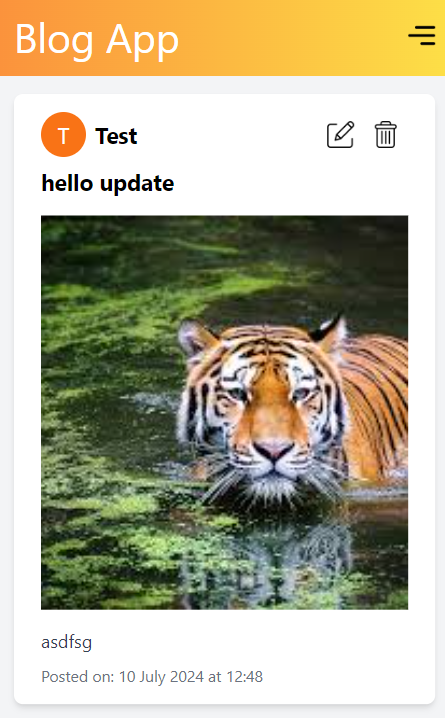
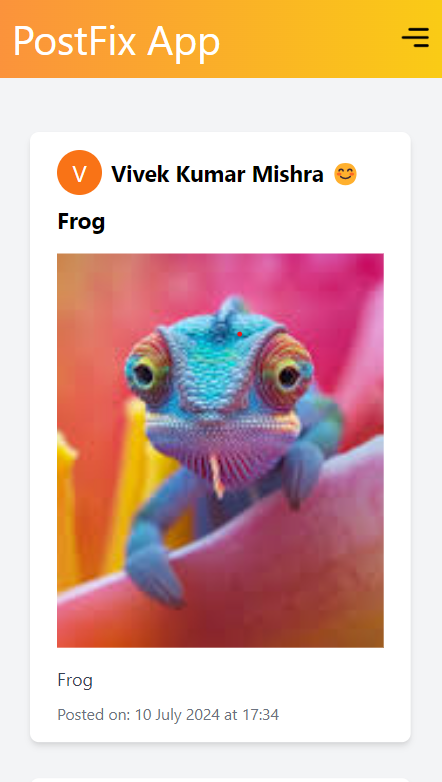
frontend

diff --git a/src/components/Header.jsx b/src/components/Header.jsx
@@ -22,7 +22,7 @@ const Header = () => {
   return (
     <div className="sticky top-0 bg-gradient-to-r from-orange-400 to-yellow-400 p-4 z-50">
       <div className="container mx-auto flex justify-between items-center">
-        <h1 className="text-white text-4xl">Blog App</h1>
+        <h1 className="text-white text-4xl">PostFix App</h1>
         <div className="lg:hidden">
           {!isMenuOpen && (
             <img 
@@ -43,7 +43,7 @@ const Header = () => {
                   isActive ? "text-orange-700 text-xl font-semibold border-b-2 border-orange-700 pb-1" : "text-gray-900 text-xl font-semibold hover:text-gray-700"
                 }
               >
-                All Blogs
+                All Posts
               </NavLink>
               <NavLink
                 to="/myBlogs"
@@ -51,7 +51,7 @@ const Header = () => {
                   isActive ? "text-orange-700 text-xl font-semibold border-b-2 border-orange-700 pb-1" : "text-gray-900 text-xl font-semibold hover:text-gray-700"
                 }
               >
-                My Blogs
+                My Posts
               </NavLink>
               <NavLink
                 to="/blogs/add"
@@ -59,7 +59,7 @@ const Header = () => {
                   isActive ? "text-orange-700 text-xl font-semibold border-b-2 border-orange-700 pb-1" : "text-gray-900 text-xl font-semibold hover:text-gray-700"
                 }
               >
-                Add Blogs
+                Add Posts
               </NavLink>
             </>
           )}
@@ -102,21 +102,21 @@ const Header = () => {
                 className="text-white text-2xl font-semibold"
                 onClick={toggleMenu}
               >
-                All Blogs
+                All Posts
               </NavLink>
               <NavLink
                 to="/myBlogs"
                 className="text-white text-2xl font-semibold"
                 onClick={toggleMenu}
               >
-                My Blogs
+                My Posts
               </NavLink>
               <NavLink
                 to="/blogs/add"
                 className="text-white text-2xl font-semibold"
                 onClick={toggleMenu}
               >
-                Add Blogs
+                Add Posts
               </NavLink>
               <button 
                 onClick={() => {

diff --git a/src/components/Hero.jsx b/src/components/Hero.jsx
@@ -5,11 +5,9 @@ const ProjectDescription = () => {
     <div className="bg-gray-100">
       <div className="container mx-auto w-[70%] py-4">
         <div className="flex flex-col items-center">
-          <h2 className="text-3xl font-bold text-orange-600 mb-4 flex text-center justify-center  items-center mt-9 ">Welcome to CRUD App!</h2>
+          <h2 className="text-3xl font-bold text-orange-600 mb-4 flex text-center justify-center  items-center mt-9 font-serif ">POSTFIX App!</h2>
           <p className="text-lg text-black text-center mb-9">
-            Sign in or sign up to use CRUD App. Once logged in, you can upload images,
-            provide titles and descriptions for your posts. Other users can view and
-            interact with your posts. Enjoy managing your content seamlessly!
+          Welcome to POSTFIX, where creativity meets community! Sign in to unleash your writing prowess by creating and sharing engaging blogs. Customize each post with images, titles, and detailed descriptions. Edit and delete your blogs effortlessly to keep your content fresh. Our user-friendly interface ensures a seamless experience, complete with a dynamic loader for quick updates. Explore diverse blogs, connect with fellow writers, and enjoy a platform designed for seamless sharing and community engagement. Join us at POSTFIX and start sharing your stories, insights, and creations today.
           </p>
         </div>
       </div>

diff --git a/src/components/BlogDetails.jsx b/src/components/BlogDetails.jsx
@@ -55,14 +55,14 @@ const BlogDetails = () => {
   };
 
   if (!blog) {
-    return <div>Loading...</div>; // Display loading message while fetching data
+    return <div>Loading...</div>; 
   }
 
   return (
     <div className="flex justify-center items-center h-screen bg-gray-100 p-3">
       <Toaster position="top-right" reverseOrder={false} />
       <form onSubmit={handleSubmit} className="w-full max-w-lg bg-white p-8 rounded-lg shadow-lg">
-        <h2 className="text-2xl font-bold mb-6 text-center">Update Your Blog</h2>
+        <h2 className="text-2xl font-bold mb-6 text-center">Update Your Post</h2>
         <div className="mb-4">
           <label className="block text-gray-700 text-sm font-bold mb-2" htmlFor="title">
             Title
@@ -96,7 +96,7 @@ const BlogDetails = () => {
             type="submit"
             className="bg-orange-500 text-white px-4 py-2 rounded-md hover:bg-orange-600 transition duration-300 font-semibold"
           >
-            Update Blog
+            Update Post
           </button>
         </div>
       </form>

diff --git a/src/components/Blog.jsx b/src/components/Blog.jsx
@@ -10,12 +10,11 @@ const Blog = ({ username, title, imageURL, description, isUser, id, createdAt, r
   const avatarLetter = username ? username.charAt(0).toUpperCase() : '';
 
   const handleEdit = () => {
-    if (isUser) { // Check if the current user is the author of the blog post
+    if (isUser) { 
       navigate(`/myBlogs/${id}`);
       console.log(`Editing blog: ${title}`);
     } else {
       console.log('You can only edit your own posts.');
-      // Optionally, show a message or handle the restriction in UI
     }
   };
 
@@ -41,11 +40,10 @@ const Blog = ({ username, title, imageURL, description, isUser, id, createdAt, r
   };
 
   const handleBlogClick = () => {
-    if (isUser) { // Check if the current user is the author of the blog post
+    if (isUser) { 
       navigate(`/myBlogs/${id}`);
     } else {
       console.log('You can only view your own posts.');
-      // Optionally, show a message or handle the restriction in UI
     }
   };
 

diff --git a/src/components/AddBlogs.jsx b/src/components/AddBlogs.jsx
@@ -57,7 +57,7 @@ const AddBlogs = () => {
     <div className="flex justify-center items-center h-screen bg-gray-100 p-3">
       <Toaster position="top-right" reverseOrder={false} />
       <form onSubmit={handleSubmit} className="w-full max-w-lg bg-white p-8 rounded-lg shadow-lg">
-        <h2 className="text-2xl font-bold mb-6 text-center">Post Your Blog</h2>
+        <h2 className="text-2xl font-bold mb-6 text-center">Add Post</h2>
         <div className="mb-4">
           <label className="block text-gray-700 text-sm font-bold mb-2" htmlFor="title">
             Title
@@ -108,7 +108,7 @@ const AddBlogs = () => {
             type="submit"
             className="bg-orange-500 text-white px-4 py-2 rounded-md hover:bg-orange-600 transition duration-300 font-semibold"
           >
-            Post Blog
+            Post
           </button>
         </div>
       </form>

diff --git a/src/components/Auth.jsx b/src/components/Auth.jsx
@@ -2,7 +2,7 @@ import React, { useState } from 'react';
 import axios from 'axios';
 import { useDispatch } from 'react-redux';
 import { authActions } from '../store/index.jsx';
-import BodyImage from './BodyImage'; // Import the BodyImage component
+import BodyImage from './BodyImage'; 
 import toast, { Toaster } from 'react-hot-toast';
 
 const Auth = () => {
